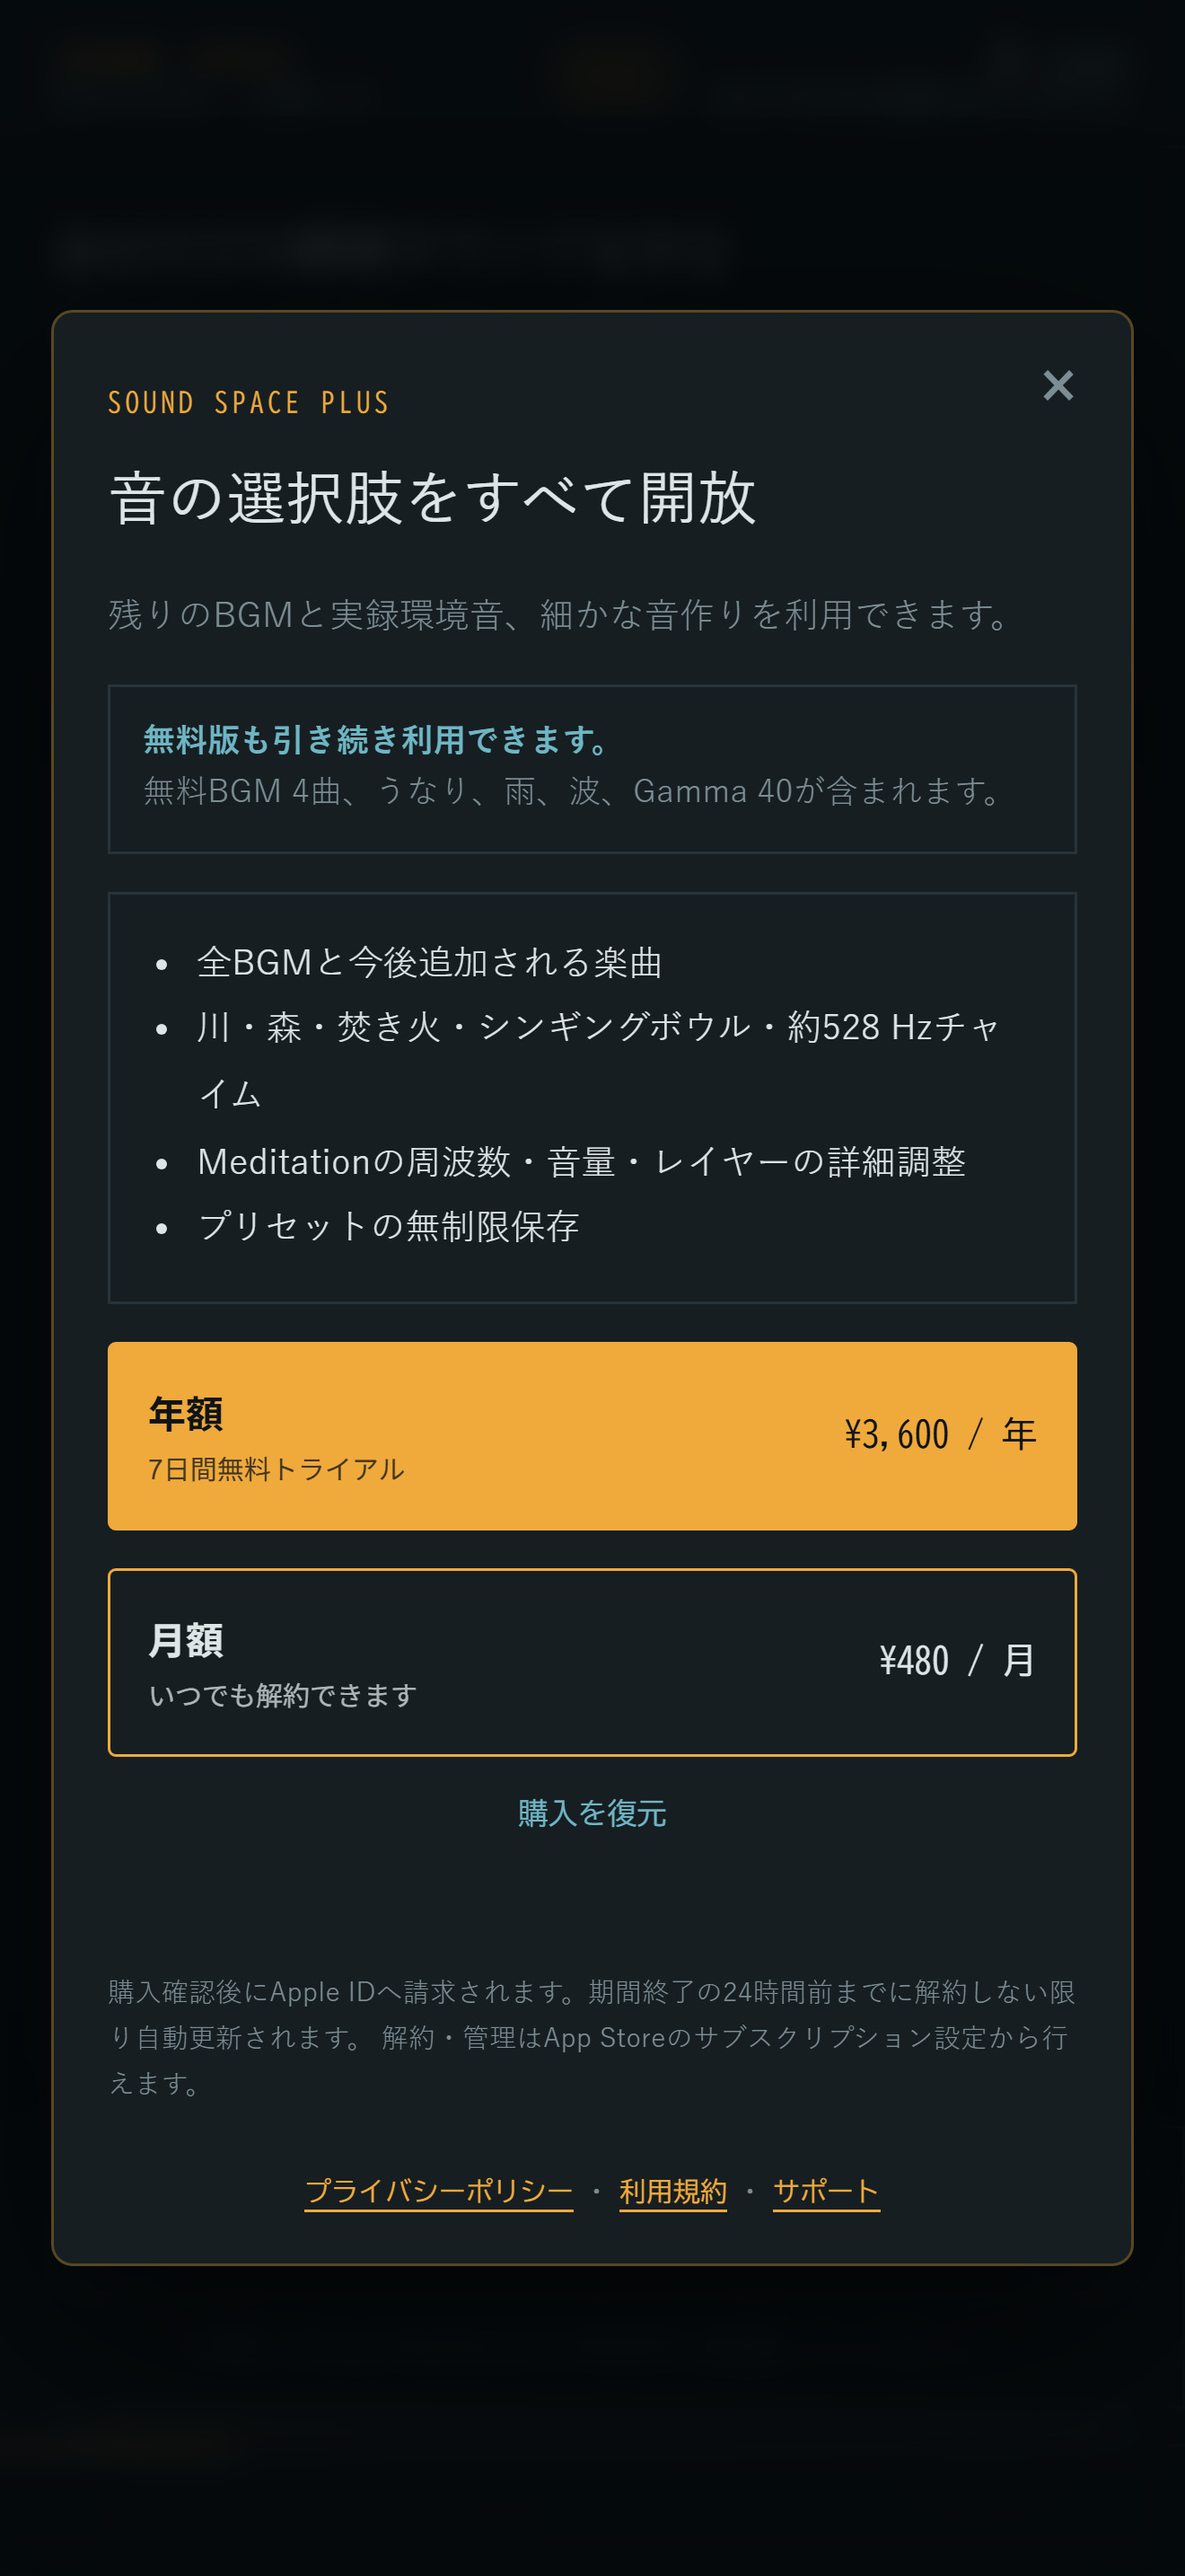
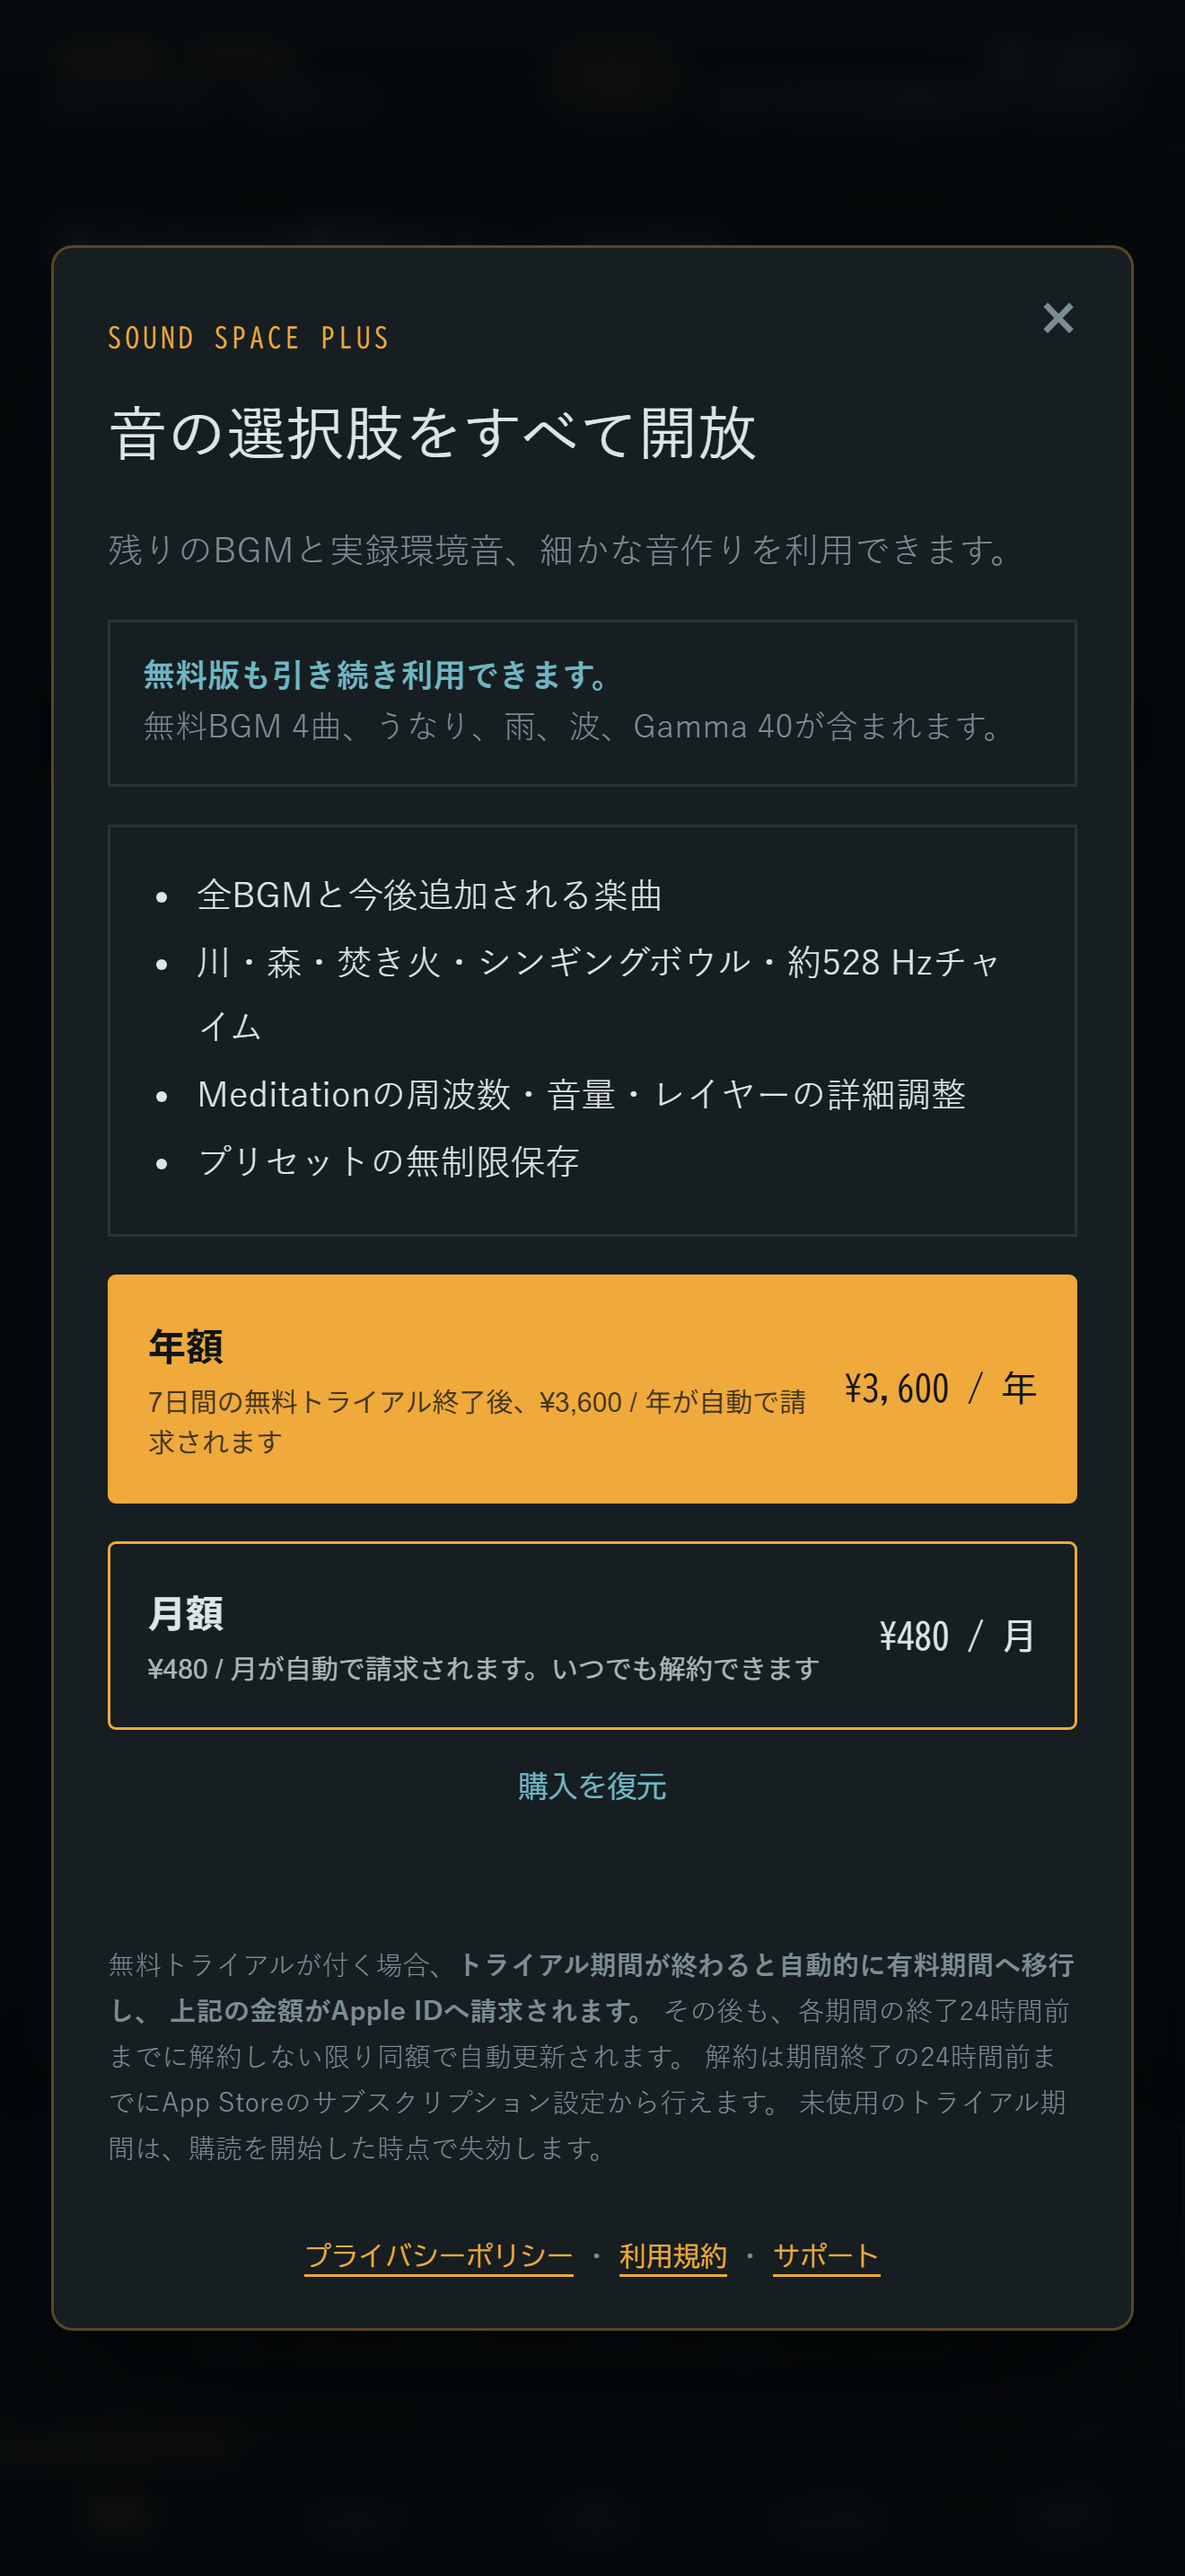
開発記事の誤りと古い画面を直す
Plus 画面の画像が、Guideline 3.1.2(c) で差し戻された購入画面のままだった。
記事では条件を1文にまとめたと説明しているので、修正後のビルドの画面に
差し替えた。重ねる音の画像に写っていた「読み込み中…」も撮り直した。

共有用と検索用の説明文を、自分だけの瞑想サウンドを作るという売りから
始まる文へ変えた。タグをタイトルに合わせて Suno AI と Claude Code × Codex
にした。無料版の表に CHECK タブを加えた。

アプリは「今後追加される楽曲」としか約束していないので「毎月」を外した。
出典を確認していない他社の価格は削った。ビルド回数は、検証とアップロードを
通しで回す約13分を基準に「実質15回ほど」に直した。

トップの「7 追加レイヤー」は数え方で8にもなるため「7 実録サウンド」にした。

diff --git a/product-architecture-workflow-ja.html b/product-architecture-workflow-ja.html
@@ -4,9 +4,9 @@
 <meta charset="utf-8">
 <meta name="viewport" content="width=device-width, initial-scale=1">
 <title>Suno AI × Claude Code × Codexで「SOUND SPACE」をApp Storeへ</title>
-<meta name="description" content="瞑想音楽と40Hz刺激を分離し、20曲のBGM、CC0実録環境音、StoreKit課金を備えたiPhoneアプリを、WindowsからApp Storeへ届けた開発記録です。">
+<meta name="description" content="BGMに雨や波などの実録環境音や音色を重ねて、自分だけの瞑想サウンドを作るiPhoneアプリ。はじめてのiOS開発で、WindowsからApp Storeへ届けるまでの設計・音源評価・実機検証・課金・Apple審査の記録です。">
 <meta property="og:title" content="Suno AI × Claude Code × Codexで「SOUND SPACE」をApp Storeへ">
-<meta property="og:description" content="作って、測って、聴いて、捨てる。瞑想音楽とGamma 40を分離した設計、実録環境音、iPhone実機検証、Apple審査までの記録。">
+<meta property="og:description" content="BGMに環境音や音色を重ね、時間を決めて、自分だけの瞑想サウンドを作る。Suno AIでの音源評価、実録環境音、iPhone実機検証、Apple審査までの開発記録。">
 <meta property="og:type" content="article">
 <meta property="og:locale" content="ja_JP">
 <meta property="og:image" content="https://gitnaka161.github.io/sound-space-support/assets/sound-space-icon.png">
@@ -126,7 +126,7 @@ footer a{color:var(--gold-light)}
         <h1>Suno AI × Claude Code × Codexで「SOUND SPACE」をApp Storeへ</h1>
         <p class="lead">BGMに環境音や音色を重ねて、自分だけの瞑想サウンドを作るiPhoneアプリです。はじめてのiOS開発をWindowsから始め、設計、音源評価、実機検証、課金、Apple審査まで進めました。</p>
         <div class="tags">
-          <span>iOS / Swift</span><span>WKWebView</span><span>StoreKit 2</span><span>GitHub Actions</span><span>Claude Design × Claude Code × Codex</span>
+          <span>iOS / Swift</span><span>WKWebView</span><span>StoreKit 2</span><span>GitHub Actions</span><span>Suno AI</span><span>Claude Code × Codex</span>
         </div>
       </div>
       <img class="hero-icon" src="assets/sound-space-icon.png" alt="満月と水面の波紋を表したSOUND SPACEのアプリアイコン">
@@ -149,7 +149,7 @@ footer a{color:var(--gold-light)}
     <p>SOUND SPACE の中心にあるのは、<strong>自分だけの瞑想サウンドを組み立てられること</strong>です。できあいの音源をそのまま流すのではなく、音楽を選び、必要な音だけを重ね、時間を決めて始めます。</p>
     <table>
       <tr><th>手順</th><th>選ぶもの</th></tr>
-      <tr><td>1. 音楽を選ぶ</td><td>深い瞑想・リラックス・睡眠・集中・ソルフェジオの5モードから選び、収録BGM 20曲のうち1曲を選びます</td></tr>
+      <tr><td>1. 音楽を選ぶ</td><td>深い瞑想・リラックス・睡眠・集中・ソルフェジオの5モードから選び、そのモードに合わせたBGM（全20曲）から1曲を選びます</td></tr>
       <tr><td>2. 重ねる</td><td>音色として<strong>うなり</strong>か<strong>シンギングボウル</strong>を1つ。環境音として<strong>雨・波・川・森・焚き火</strong>から1つ。どちらも「なし」で構わず、後から変更できます</td></tr>
       <tr><td>3. 時間を決めて始める</td><td>10分から60分、または無制限。いつでも停止できます</td></tr>
     </table>
@@ -244,7 +244,7 @@ footer a{color:var(--gold-light)}
     <p>課金の根拠はコスト構造とも一致しました。合成音の配信コストは小さい一方、<strong>BGMの制作・評価・権利記録・追加には継続的な費用と作業が伴います。</strong>既存の全曲と今後追加する曲を提供することを、Plusの継続的な価値としました。</p>
     <table>
       <tr><th>無料</th><th>SOUND SPACE Plus（月額480円 / 年額3,600円）</th></tr>
-      <tr><td>Gamma 40（時間無制限）、各カテゴリ1曲、雨、波、うなり、記録</td><td>全20曲と今後追加される楽曲、川・森・焚き火・シンギングボウル・約528Hzチャイム、詳細調整、プリセットの無制限保存</td></tr>
+      <tr><td>Gamma 40（時間無制限）、CHECKタブ、各カテゴリ1曲、雨、波、うなり、記録</td><td>全20曲と今後追加される楽曲、川・森・焚き火・シンギングボウル・約528Hzチャイム、詳細調整、プリセットの無制限保存</td></tr>
     </table>
 
     <p>音楽を完全に閉じないことも意図的です。無料版が「合成音だけ鳴るアプリ」だと、利用者は自分が何を買おうとしているのか分からないまま判断することになります。<strong>無料で数曲聴けて「Plusでは全20曲と今後の追加曲を使える」と分かる状態</strong>が、購入前に内容を確かめやすい形だと考えました。</p>
@@ -260,8 +260,8 @@ footer a{color:var(--gold-light)}
     <p>3つ目は補足が必要です。<a href="#s7">先ほどの測定</a>のとおり、変調されていない音を刺激の横に置くと谷が埋まります。広告音声はまさにそれで、鳴っているあいだ刺激が成立しません。広告は理念の問題ではなく、<strong>この製品では技術的に両立しない</strong>という話でした。</p>
 
     <h3>価格をどう決めたか</h3>
-    <p>買い切りは出していません。毎月BGMを足すという約束と両立しないためです。あとから追加はできますが、撤回はできません。</p>
-    <p>価格は市場相場の中に置きました。海外の主要アプリが年5,000〜6,500円、国内の瞑想アプリが月500〜980円という水準に対して、月480円・年3,600円です。Appleの手数料はSmall Business Programで15%。アプリ内課金はAppleが販売者になるため、決済・消費税・返金対応を自前で持たなくてよいのも、個人開発では大きい判断材料でした。</p>
+    <p>買い切りは出していません。BGMを継続的に追加していく提供内容と両立しないためです。あとから追加はできますが、撤回はできません。</p>
+    <p>価格は、既存の瞑想アプリの月額・年額と比べて手に取りやすい水準を目安に、月480円・年3,600円にしました。Appleの手数料はSmall Business Programで15%。アプリ内課金はAppleが販売者になるため、決済・消費税・返金対応を自前で持たなくてよいのも、個人開発では大きい判断材料でした。</p>
 
     <h2 id="s11">日本市場の法規制</h2>
     <p>有料・無料にかかわらず、周波数や瞑想に効能を結びつける表現は慎重に扱う必要があります。有料化を設計する段階で、掲載文とアプリ内の説明を事実ベースへ揃えました。</p>
@@ -342,7 +342,7 @@ footer a{color:var(--gold-light)}
       <figcaption>矢印は一方向です。App Store Connect から GitHub を見に来ることはありません。ビルドしたファイルを GitHub 側から App Store Connect の API へ送りつけています。</figcaption>
     </figure>
 
-    <p>この構成には費用の落とし穴がありました。<strong>GitHubはmacOSの実行時間をLinuxの10倍で数えます。</strong>privateリポジトリの無料枠は月2,000分ですが、macOSだと6分のジョブで60分消費されるため、実質30回ほどのビルドで尽きます。</p>
+    <p>この構成には費用の落とし穴がありました。<strong>GitHubはmacOSの実行時間をLinuxの10倍で数えます。</strong>privateリポジトリの無料枠は月2,000分ですが、macOSでは1分が10分として数えられます。検証とアップロードを通しで回すと約13分、つまり130分ぶん消費するため、実質15回ほどのビルドで尽きます。</p>
     <p>開発が集中した数日で枠を使い切り、審査対応が数日止まりました。原因は<strong>ソースを変更するたびに自動でビルドが走る設定</strong>にしていたことです。Webサービスなら妥当な設定ですが、iOSでは高すぎました。現在は手動実行のみに変え、ビルドは「出すとき」だけ回しています。</p>
 
     <h2 id="s14">会話ではなく、リポジトリを中心にAIと協働する</h2>

diff --git a/index.html b/index.html
@@ -43,7 +43,7 @@
         </div>
         <ul class="fact-list" aria-label="アプリの特徴">
           <li><strong>20</strong><span>BGM</span></li>
-          <li><strong>7</strong><span>追加レイヤー</span></li>
+          <li><strong>7</strong><span>実録サウンド</span></li>
           <li><strong>0</strong><span>広告・追跡</span></li>
         </ul>
       </div>
